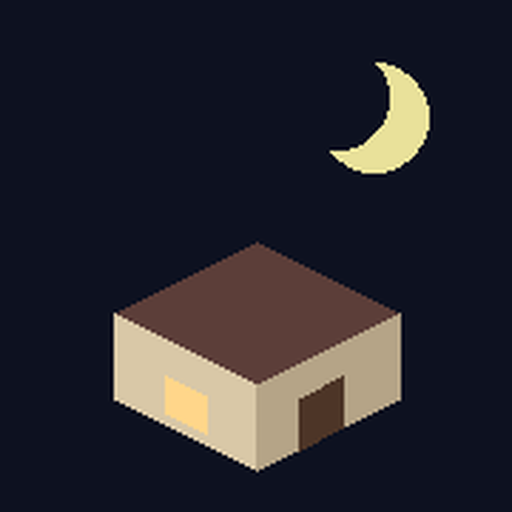
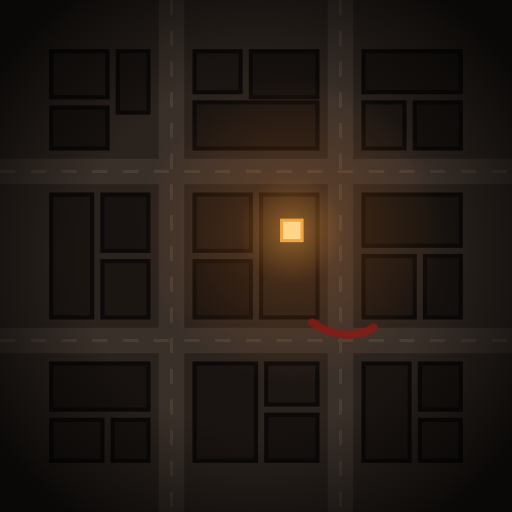
Kvartal: emblem - a dark block from above with one lit window
Drawn as SVG: above the title in the intro, beside it in the menu, and
rendered into the home-screen icons (180, 192, 512). Menu layout rules no
longer leak into the intro.

Claude-Session: https://claude.ai/code/session_01CJeFQTEg4JxW5kAec31Xqp

diff --git a/mobile-games/kvartal/index.html b/mobile-games/kvartal/index.html
@@ -7307,7 +7307,7 @@ function showTitle(fresh = true) {
   screen.innerHTML = `<div class="tgrain"></div>
   <div class="tbox">
     <div class="talert"><i></i>Экстренное оповещение · округ Ноксвилл</div>
-    <h1 class="ttitle">Последний<br>квартал</h1>
+    <div class="tbrand"><span class="temb">${emblemSVG("te")}</span><h1 class="ttitle">Последний<br>квартал</h1></div>
     <div class="tline">Помощь не придёт. Выживай, сколько сможешь.</div>
     <nav class="tmenu">
       ${sv ? item("cont", "Продолжить", `День ${sv.W.day}, ${fmtTime(sv.W.time)}${sv.P && sv.P.prof && PROFS[sv.P.prof] ? " · " + PROFS[sv.P.prof].name.toLowerCase() : ""}`) : ""}
@@ -7382,6 +7382,8 @@ function titleCss() {
 .ttitle { margin: 2px 0 0; font-family: var(--display); font-weight: 400; text-transform: uppercase; font-size: clamp(34px, 7.2vw, 62px); line-height: .92; letter-spacing: .03em;
   color: #e9e1d4; text-shadow: 0 0 1px #000, 2px 2px 0 rgba(120,14,10,.7), 0 8px 40px rgba(0,0,0,.9); animation: tflick 7s infinite; }
 @keyframes tflick { 0%, 91%, 93.5%, 96%, 100% { opacity: 1 } 92% { opacity: .55 } 95% { opacity: .78 } }
+.tbrand { display: flex; align-items: center; gap: clamp(10px, 2vw, 18px); }
+.temb svg { width: clamp(54px, 9vw, 96px); height: auto; display: block; filter: drop-shadow(0 0 18px rgba(242,165,65,.15)); }
 .tline { font: italic 400 14px Georgia, serif; color: #a39a8c; margin-bottom: 8px; }
 .tmenu { display: flex; flex-direction: column; gap: 2px; border-left: 2px solid rgba(208,69,58,.35); }
 .tm { position: relative; display: flex; align-items: baseline; gap: 12px; padding: 8px 14px; background: none; border-radius: 0 10px 10px 0; text-align: left;
@@ -7412,17 +7414,20 @@ function titleCss() {
 .ngbox h1 { text-transform: uppercase; letter-spacing: .03em; font-size: 26px !important; max-width: none !important; line-height: 1.05 !important; }
 /* short landscape screens (a phone, or a page under an app bar): title on the left, menu on the right */
 @media (orientation: landscape) and (max-height: 540px) {
-  .tbox { display: grid; grid-template-columns: minmax(0, 1.15fr) minmax(220px, .85fr); grid-template-rows: auto auto auto; column-gap: 28px; row-gap: 6px;
+  .tbox { display: grid; grid-template-columns: minmax(0, 1.3fr) minmax(210px, .7fr); grid-template-rows: auto auto auto; column-gap: 28px; row-gap: 6px;
     align-content: center; max-width: none; padding: calc(var(--st) + 10px) calc(var(--sr) + 24px) calc(var(--sb) + 48px) calc(var(--sl) + 28px); }
-  .talert { grid-column: 1; grid-row: 1; align-self: end; }
-  .ttitle { grid-column: 1; grid-row: 2; font-size: clamp(26px, min(6.4vw, 15vh), 62px); }
-  .tline { grid-column: 1; grid-row: 3; align-self: start; margin: 0; font-size: 13px; }
+  .tbox .talert { grid-column: 1; grid-row: 1; align-self: end; }
+  .tbox .tbrand { grid-column: 1; grid-row: 2; }
+  .tbox .ttitle { font-size: clamp(24px, min(5.1vw, 13vh), 58px); }
+  .temb svg { width: clamp(42px, 15vh, 80px); }
+  .tbrand { min-width: 0; }
+  .tbox .tline { grid-column: 1; grid-row: 3; align-self: start; margin: 0; font-size: 13px; }
   .tmenu { grid-column: 2; grid-row: 1 / 4; align-self: center; }
   .tm { font-size: clamp(14px, 4.6vh, 21px); padding: clamp(4px, 1.6vh, 8px) 12px; flex-wrap: wrap; row-gap: 0; }
   .tm small { flex-basis: 100%; font-size: 11px; }
   .tbest { top: auto; bottom: calc(var(--sb) + 46px); }
 }
-@media (orientation: landscape) and (max-height: 300px) { .tline, .tm small, .tbest { display: none; } .talert { font-size: 9px; } }
+@media (orientation: landscape) and (max-height: 300px) { .tbox .tline, .tm small, .tbest { display: none; } .tbox .talert { font-size: 9px; } }
 .tbox { overflow: auto; }
 @media (prefers-reduced-motion: reduce) { .tgrain, .ttitle, .tmarq > div, .talert i, .tlive i { animation: none; } }`;
   document.head.append(st);
@@ -8105,6 +8110,40 @@ const recheckSize = () => { if (window.innerWidth !== lastIW || window.innerHeig
 window.addEventListener("orientationchange", () => { setTimeout(recheckSize, 120); setTimeout(recheckSize, 500); });
 setInterval(recheckSize, 250);
 game.classList.toggle("lefty", !!settings.lefty);
+// ---------- the emblem: a dark block seen from above, one window still lit
+function emblemSVG(id = "em", full = false) {
+  // streets between nine blocks; each block holds a few roofs; one roof has a lit window
+  const roofs = [
+    [10, 10, 11, 9, "#1d1714"], [23, 10, 6, 12, "#191311"], [10, 21, 11, 8, "#17120f"],
+    [38, 10, 9, 8, "#1b1512"], [49, 10, 13, 9, "#16110f"], [38, 20, 24, 9, "#1a1411"],
+    [71, 10, 19, 8, "#18130f"], [71, 20, 8, 9, "#1c1613"], [81, 20, 9, 9, "#15110e"],
+    [10, 38, 8, 24, "#1a1411"], [20, 38, 9, 11, "#17120f"], [20, 51, 9, 11, "#1b1512"],
+    [38, 38, 11, 11, "#1c1613"], [51, 38, 11, 24, "#201915"], [38, 51, 11, 11, "#16110f"],
+    [71, 38, 19, 10, "#18130f"], [71, 50, 10, 12, "#1a1411"], [83, 50, 7, 12, "#16110f"],
+    [10, 71, 19, 9, "#17120f"], [10, 82, 10, 8, "#1b1512"], [22, 82, 7, 8, "#18130f"],
+    [38, 71, 12, 19, "#191311"], [52, 71, 10, 8, "#1c1613"], [52, 81, 10, 9, "#16110f"],
+    [71, 71, 9, 19, "#1a1411"], [82, 71, 8, 9, "#17120f"], [82, 82, 8, 8, "#1b1512"]
+  ];
+  return `<svg viewBox="0 0 100 100" xmlns="http://www.w3.org/2000/svg" aria-hidden="true">
+<defs>
+<radialGradient id="${id}g" cx="57" cy="45" r="30" gradientUnits="userSpaceOnUse"><stop offset="0" stop-color="#f2a541" stop-opacity=".55"/><stop offset=".35" stop-color="#e07a2a" stop-opacity=".18"/><stop offset="1" stop-color="#e07a2a" stop-opacity="0"/></radialGradient>
+<radialGradient id="${id}v" cx="50" cy="50" r="62" gradientUnits="userSpaceOnUse"><stop offset=".55" stop-color="#000" stop-opacity="0"/><stop offset="1" stop-color="#000" stop-opacity=".75"/></radialGradient>
+<clipPath id="${id}c"><rect width="100" height="100" rx="${full ? 0 : 18}"/></clipPath>
+</defs>
+<g clip-path="url(#${id}c)">
+<rect width="100" height="100" fill="#2a221d"/>
+<path d="M0 33.5h100M0 66.5h100M33.5 0v100M66.5 0v100" stroke="#3a302a" stroke-width="5"/>
+<path d="M0 33.5h100M0 66.5h100M33.5 0v100M66.5 0v100" stroke="#4a3e34" stroke-width=".6" stroke-dasharray="3 3"/>
+${roofs.map(([x, y, w, h, c]) => `<rect x="${x}" y="${y}" width="${w}" height="${h}" fill="${c}" stroke="#0c0908" stroke-width=".8"/>`).join("")}
+<rect width="100" height="100" fill="url(#${id}g)"/>
+<rect x="55" y="43" width="4" height="4" fill="#ffd58a"/><rect x="55" y="43" width="4" height="4" fill="none" stroke="#f2a541" stroke-width=".6"/>
+<path d="M61 63c4 3 9 3 12 1" stroke="#8a1a14" stroke-width="1.6" fill="none" stroke-linecap="round" opacity=".8"/>
+<rect width="100" height="100" fill="url(#${id}v)"/>
+</g>
+${full ? "" : `<rect x=".75" y=".75" width="98.5" height="98.5" rx="17.5" fill="none" stroke="rgba(208,69,58,.45)" stroke-width="1.5"/>`}
+</svg>`;
+}
+
 // ================= intro: tap for sound, an emergency broadcast, then the logo =================
 // a dry heartbeat and radio crackle made on the spot
 const heartbeat = v => { thud(v, 140); setTimeout(() => thud(v * .7, 110), 160); };
@@ -8114,7 +8153,7 @@ function playIntro() {
   const o = document.createElement("div"); o.id = "intro";
   o.innerHTML = `<div class="tgrain"></div><div class="iscan"></div>
     <div class="ibox"><div class="istart"><div class="ihp"><svg viewBox="0 0 24 24" fill="none" stroke="currentColor" stroke-width="2" stroke-linecap="round" stroke-linejoin="round"><path d="M4 15v-3a8 8 0 0 1 16 0v3"/><rect x="3" y="14" width="4.5" height="7" rx="1.5"/><rect x="16.5" y="14" width="4.5" height="7" rx="1.5"/></svg>Звук включится после касания · лучше в наушниках</div></div><div class="ilines"></div>
-    <div class="ilogo"><div class="talert"><i></i>Экстренное оповещение</div><h1 class="ttitle">Последний<br>квартал</h1><div class="tline">Помощь не придёт.</div></div></div>
+    <div class="ilogo"><div class="iemb">${emblemSVG("ie")}</div><div class="talert"><i></i>Экстренное оповещение</div><h1 class="ttitle">Последний<br>квартал</h1><div class="tline">Помощь не придёт.</div></div></div>
     <div class="itap">Коснись, чтобы включить звук</div>`;
   const st = document.createElement("style");
   st.textContent = `#intro { position: absolute; inset: 0; z-index: 30; background: #050303; display: grid; place-items: center; overflow: hidden; transition: opacity .9s ease; cursor: pointer; }
@@ -8131,6 +8170,7 @@ function playIntro() {
 #intro .ilogo { position: absolute; display: grid; justify-items: center; gap: 6px; text-align: center; opacity: 0; transform: scale(1.06); transition: opacity 1s ease, transform 2.4s ease-out; }
 #intro .ilogo .ttitle { font-size: clamp(38px, 9vw, 84px); text-align: center; }
 #intro .ilogo .talert { justify-content: center; }
+#intro .iemb svg { width: clamp(56px, 12vh, 96px); height: auto; display: block; margin-bottom: 4px; filter: drop-shadow(0 0 22px rgba(242,165,65,.18)); }
 #intro.logo .ilogo { opacity: 1; transform: scale(1); }
 #intro.logo .ilines, #intro.logo .istart { opacity: 0; }
 #intro.glitch .ibox { animation: iglitch .35s steps(3) 1; }

diff --git a/mobile-games/kvartal/sw.js b/mobile-games/kvartal/sw.js
@@ -1,5 +1,5 @@
 // offline cache: the game opens from the home screen without a connection; a new version is fetched in the background
-const CACHE = "kvartal-0168491b3e";
+const CACHE = "kvartal-c4326efc2b";
 const FILES = ["./", "index.html", "manifest.webmanifest", "icon.png", "icon-192.png", "icon-512.png",
   "lib/three.min.js", "lib/CopyShader.js", "lib/LuminosityHighPassShader.js", "lib/EffectComposer.js", "lib/RenderPass.js", "lib/ShaderPass.js", "lib/UnrealBloomPass.js", "lib/BufferGeometryUtils.js"];
 self.addEventListener("install", e => { e.waitUntil(caches.open(CACHE).then(c => c.addAll(FILES)).then(() => self.skipWaiting())); });
